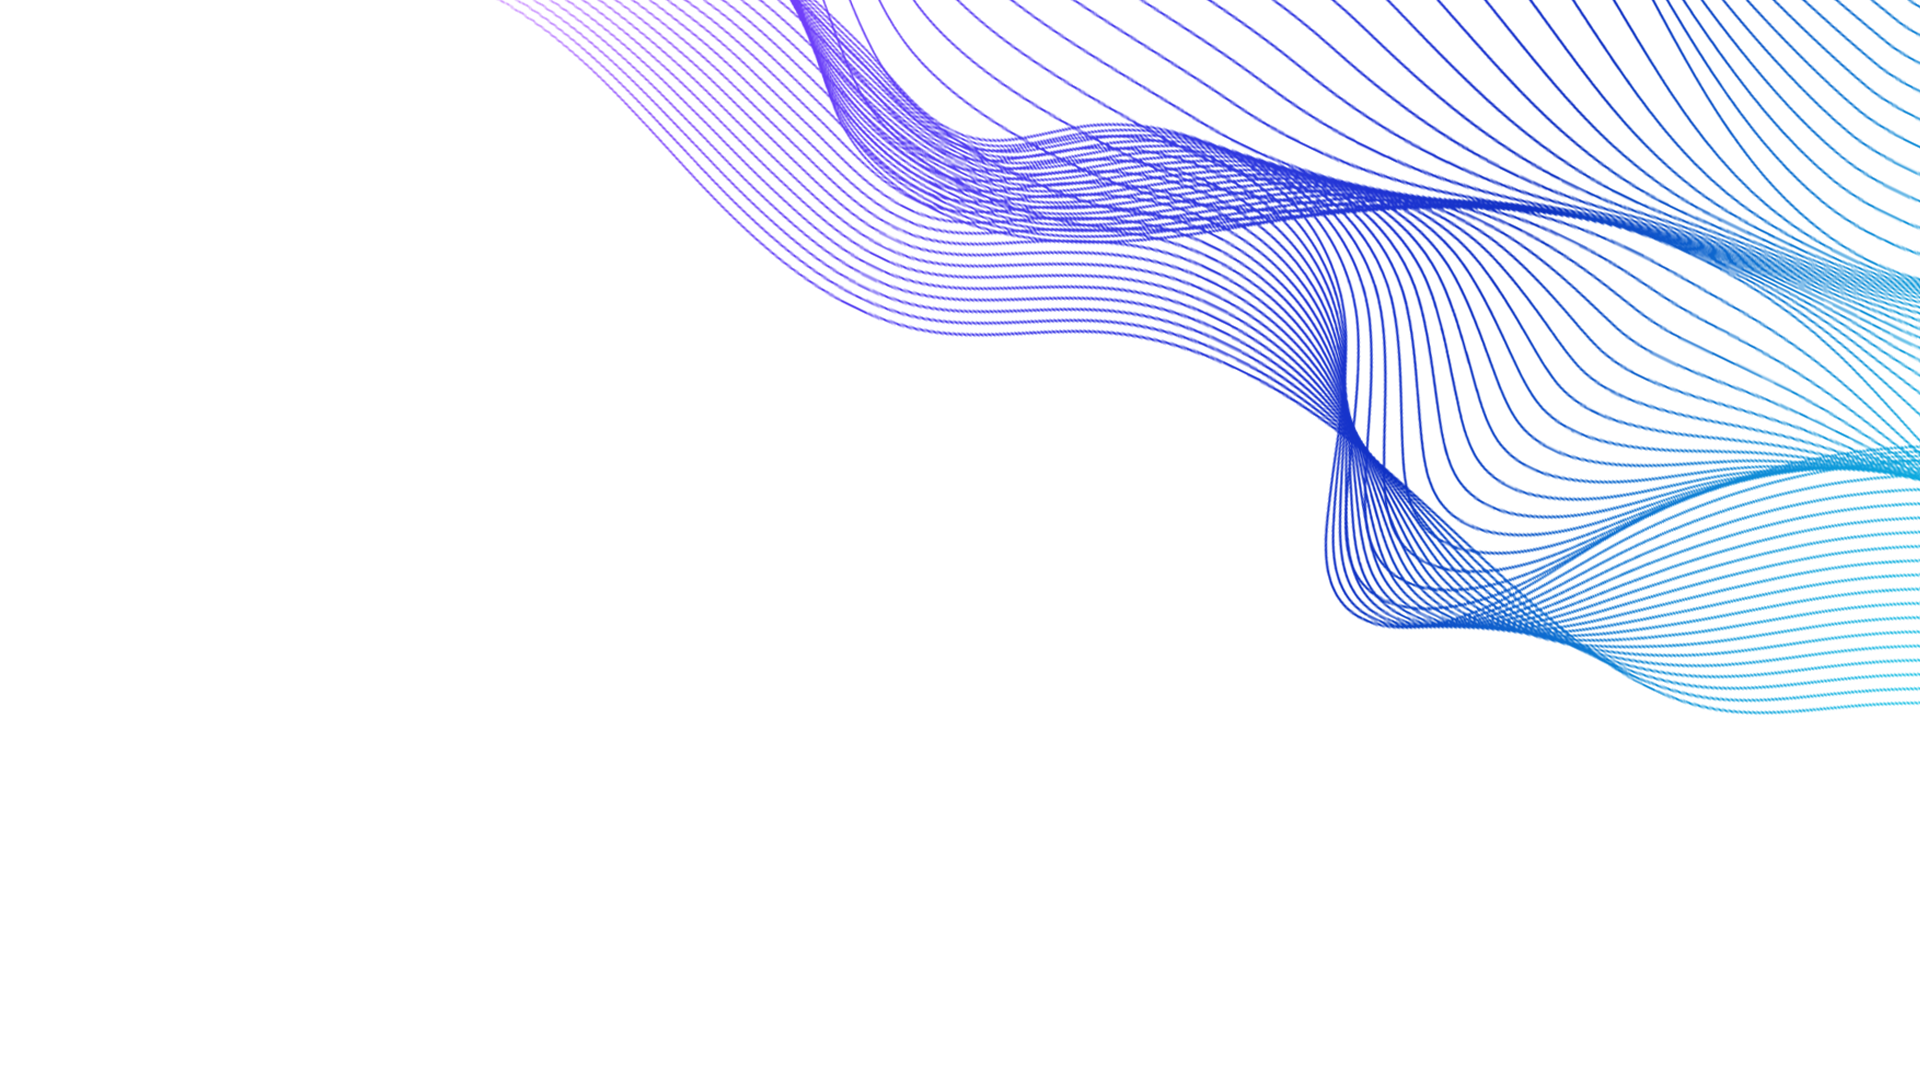
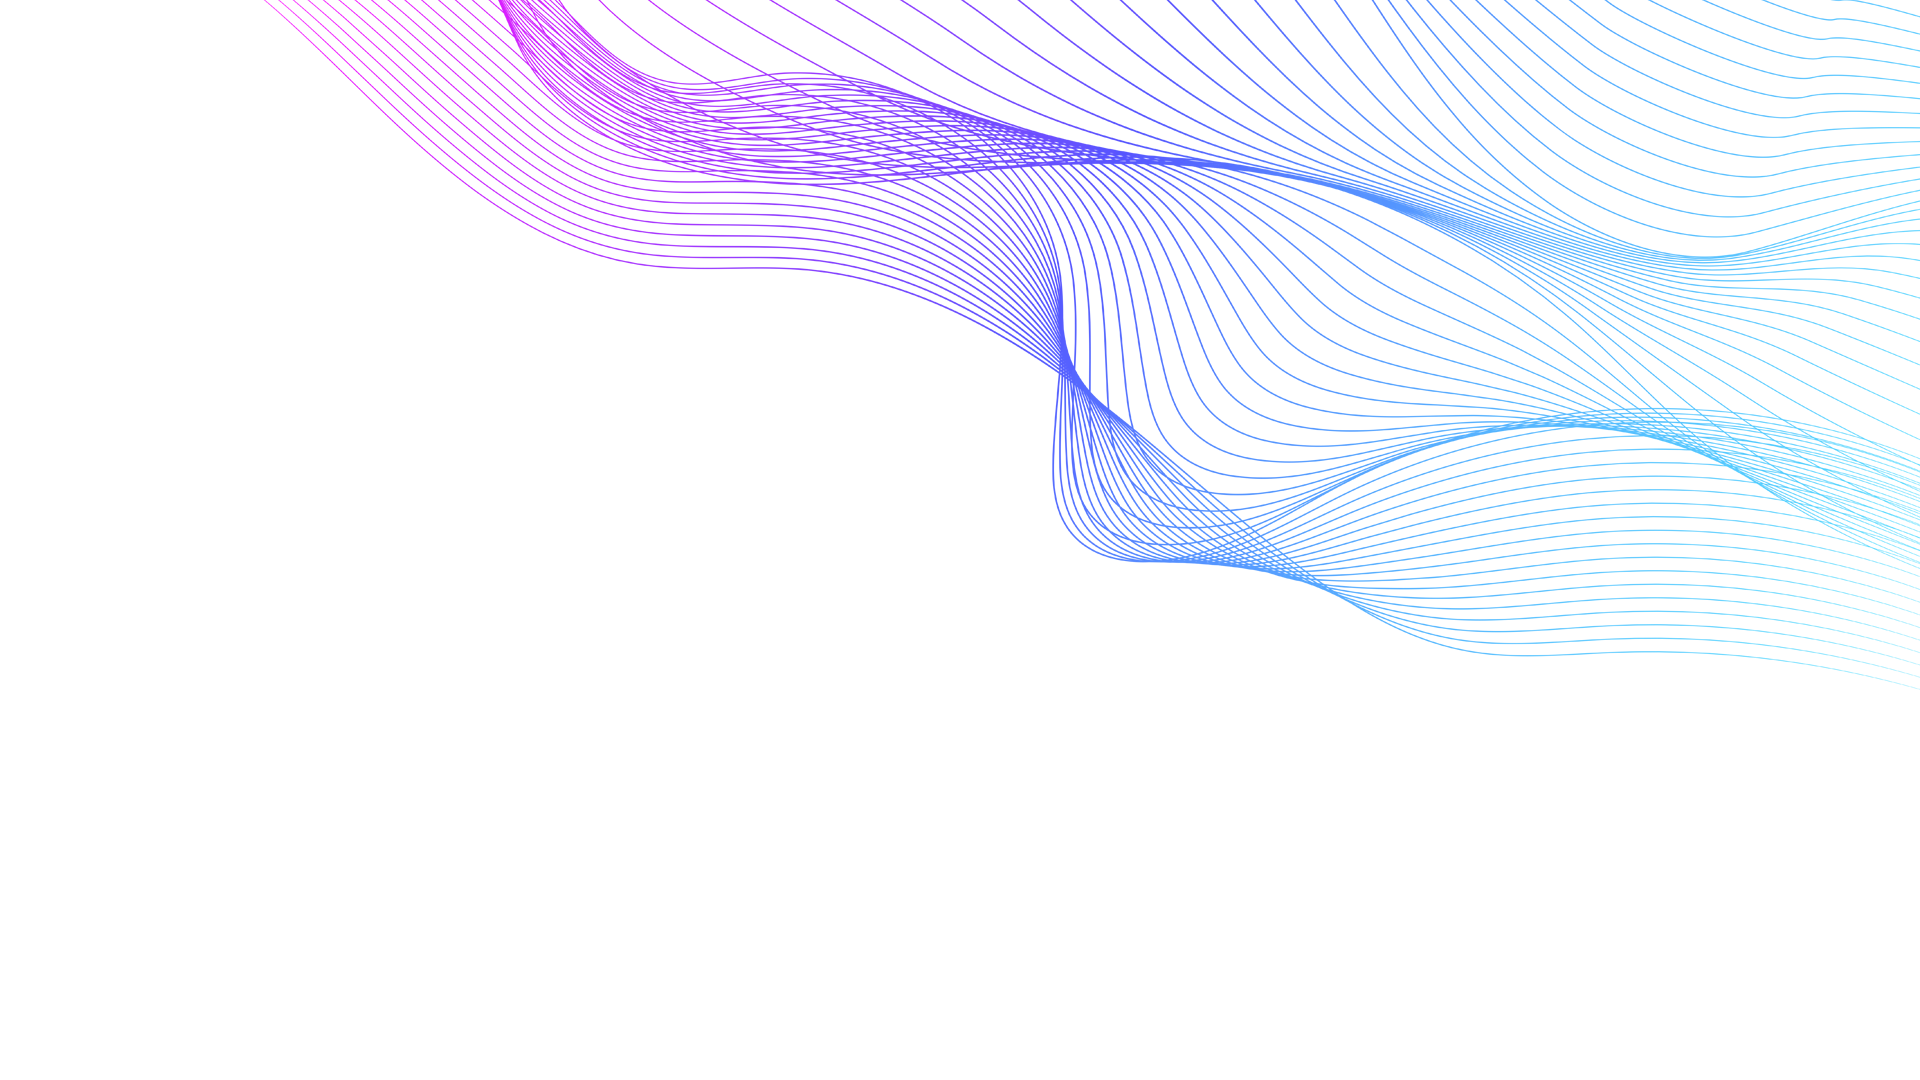
배경 수정

Changed region(s): [[0.1562, 0.0, 1.0, 0.6722]]

diff --git a/css/index.css b/css/index.css
@@ -2,7 +2,7 @@
 
 #menu {
     width: 100%;
-    height: 120px;
+    height: 100px;
     position: fixed;
     display: flex;
     align-items: center;
@@ -18,7 +18,7 @@
 
 #menu > .meLi {
     width: 70%;
-    height: 120px;
+    height: 100px;
     display: flex;
     flex-flow: row wrap;
     justify-content: flex-end;
@@ -26,7 +26,7 @@
 
 #menu > .meLi > li {
     width: auto;
-    line-height: 120px;
+    line-height: 100px;
     margin: auto 2%;
 }
 
@@ -69,8 +69,8 @@
 #main_notice {
     width: 100%;
     height: 1000px;
-    background-color: #ddd;
-    background-image: url("/mysr_project2/img/bg_graphic_g.png");
+    background-color: gray;
+    background-image: url("/mysr_project2/img/bg_graphic_w.png");
     background-attachment: fixed;
     background-position: top center;
     background-repeat: no-repeat;

diff --git a/index.html b/index.html
@@ -49,12 +49,12 @@
             <div id="main_top">
 
             </div>
-
-            <div id="main_slide">
-
-            </div>
             
             <div id="main_stage">
+
+            </div>
+
+            <div id="main_slide">
 
             </div>
 
